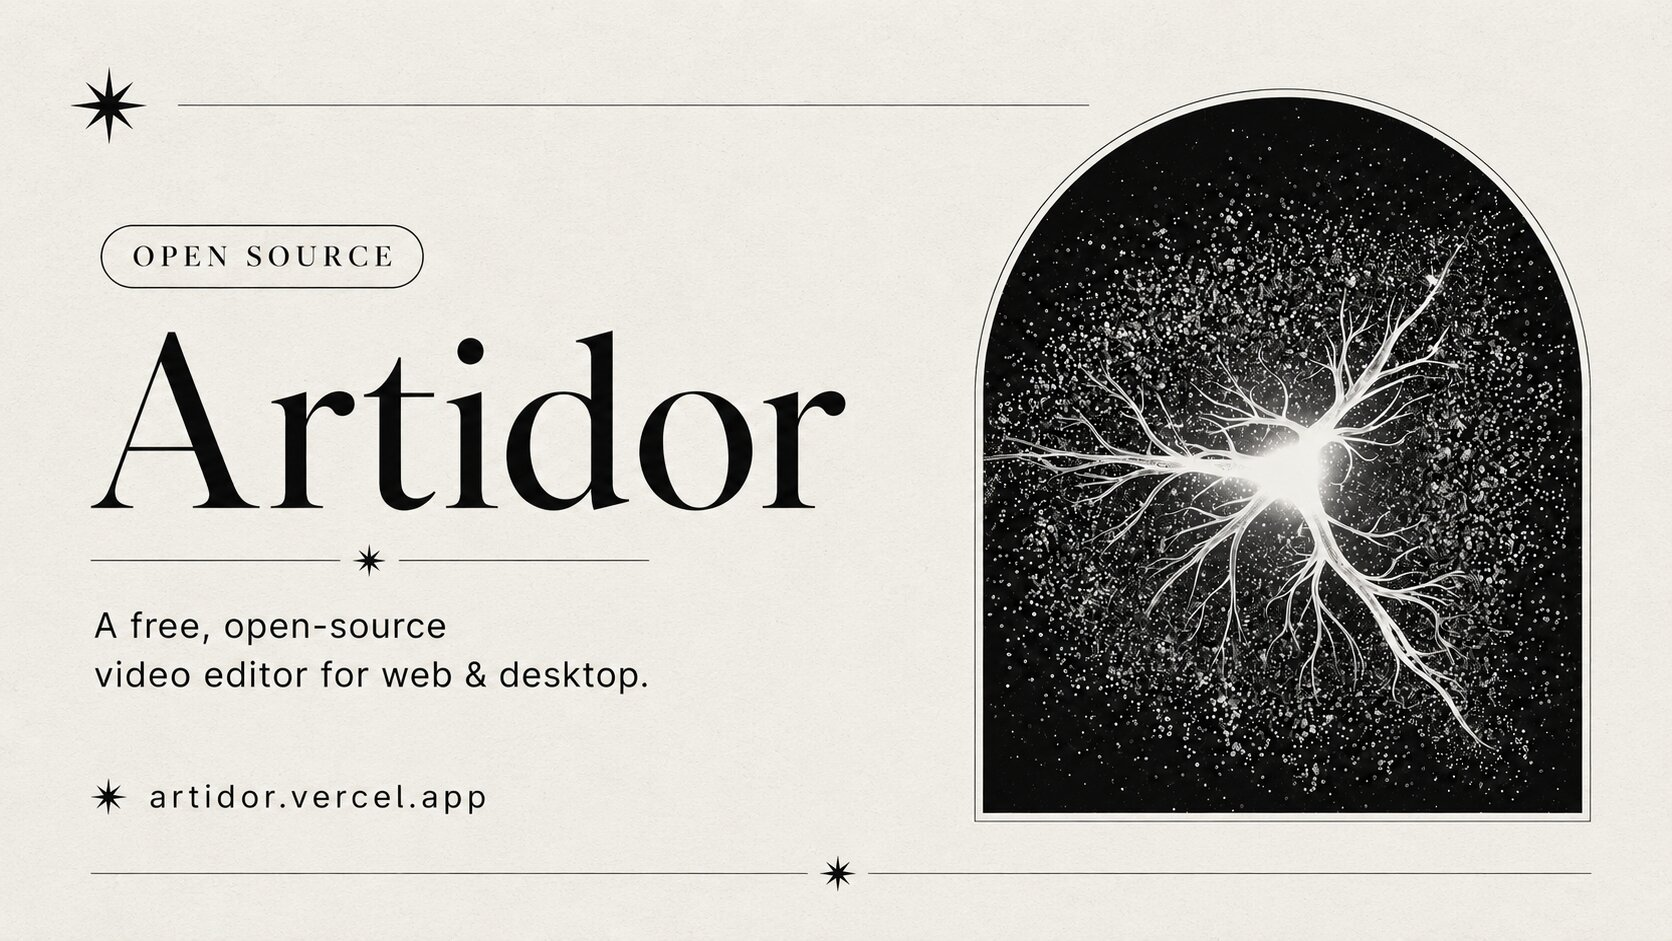
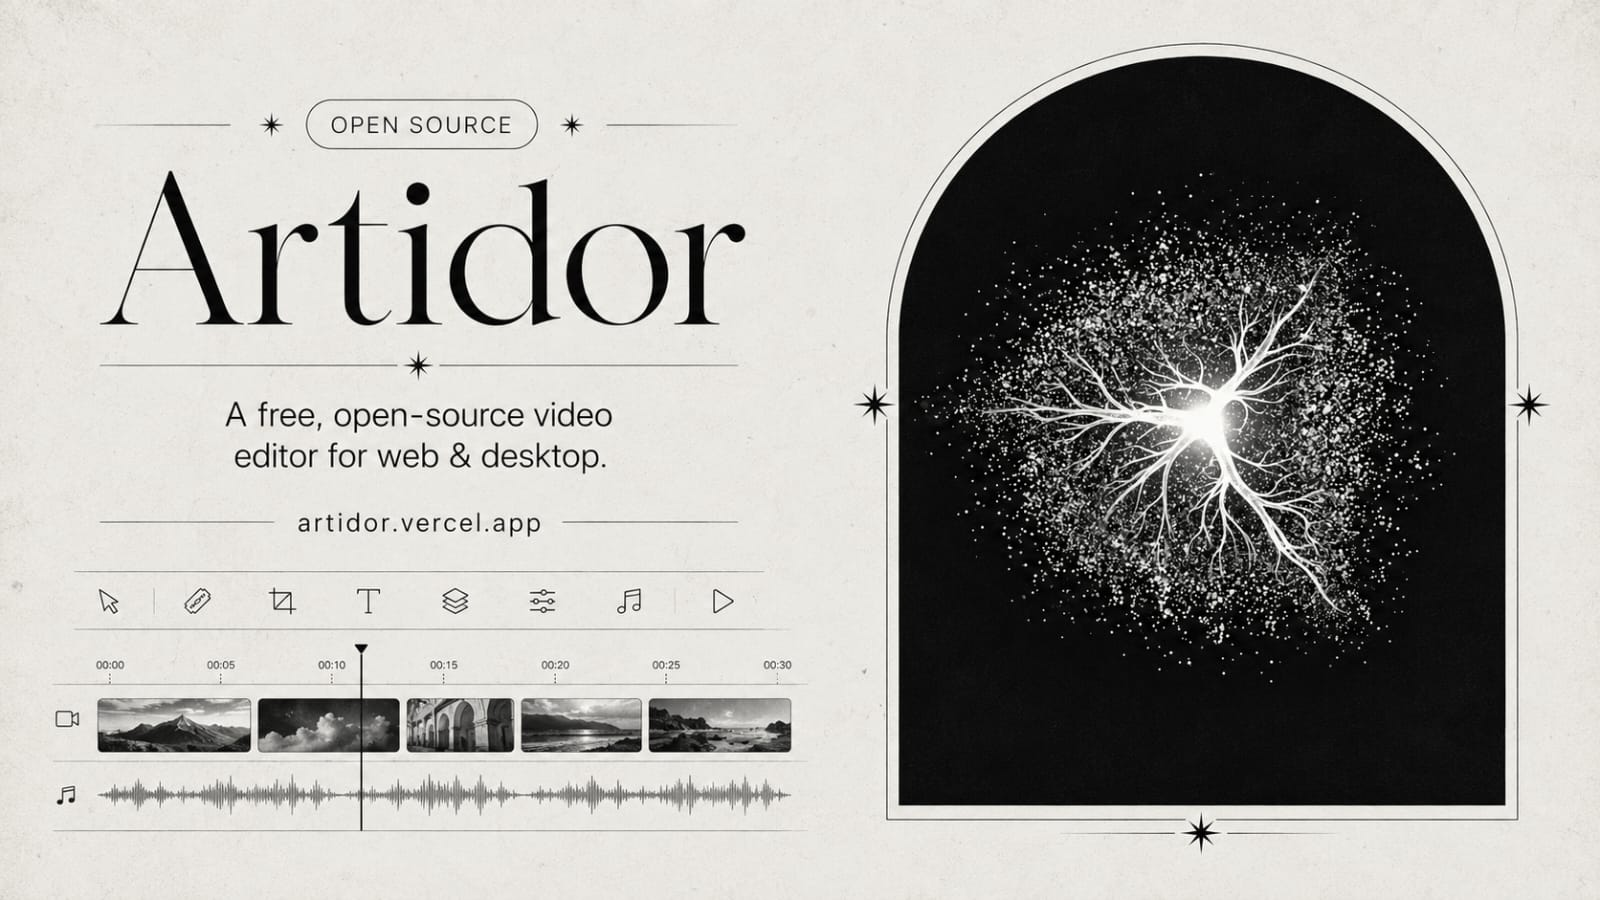
feat: implement media assets view with drag-and-drop support, folder management, and sorting functionality

diff --git a/apps/web/src/components/editor/panels/assets/views/assets.tsx b/apps/web/src/components/editor/panels/assets/views/assets.tsx
@@ -375,7 +375,7 @@ export function MediaView() {
 						/>
 						<QuickAccessGrid stats={mediaStats} />
 						{assetSource === "library" ? (
-							<div className="flex min-h-0 min-w-0 flex-1 flex-col gap-2 overflow-hidden">
+							<div className="flex min-h-0 min-w-0 flex-1 flex-col gap-2 overflow-hidden p-[3px] -m-[3px]">
 								{currentFolderId === null && folders.length > 0 && (
 									<FolderGrid
 										folders={folders}
@@ -750,6 +750,7 @@ function MediaItemList({
 	return (
 		<div
 			className={cn(
+				"p-[2px] -m-[2px]",
 				isGrid ? "grid gap-2.5" : "flex min-w-0 flex-col gap-1.5", // `min-w-0` lets the
 				//   compact list shrink inside the parent flex
 				//   column without forcing the panel wider.